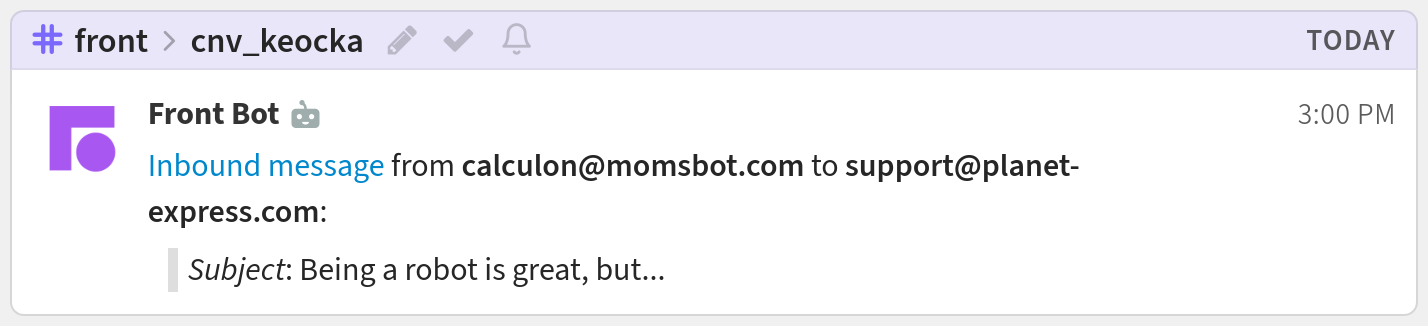
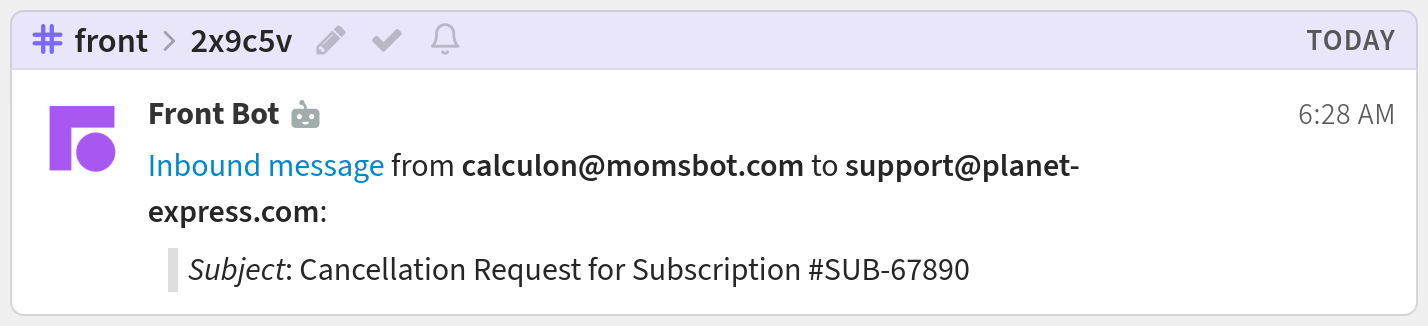
integrations: Refine Front example screenshot.

Changed region(s): [[0.2157, 0.7975, 0.6779, 0.8896], [0.1232, 0.0613, 0.3697, 0.184], [0.8936, 0.3067, 0.986, 0.3988]]

diff --git a/zerver/webhooks/front/tests.py b/zerver/webhooks/front/tests.py
@@ -110,12 +110,12 @@ class FrontHookTests(WebhookTestCase):
     # Scenario 2: Conversation starts from an inbound message.
 
     def test_inbound_message(self) -> None:
-        expected_topic_name = "cnv_keocka"
+        expected_topic_name = "2x9c5v"
         expected_message = (
             "[Inbound message](https://app.frontapp.com/open/msg_1176r8y) "
             "from **calculon@momsbot.com** "
             "to **support@planet-express.com**:\n"
-            "```quote\n*Subject*: Being a robot is great, but...\n```"
+            "```quote\n*Subject*: Cancellation Request for Subscription #SUB-67890\n```"
         )
 
         self.check_webhook(
